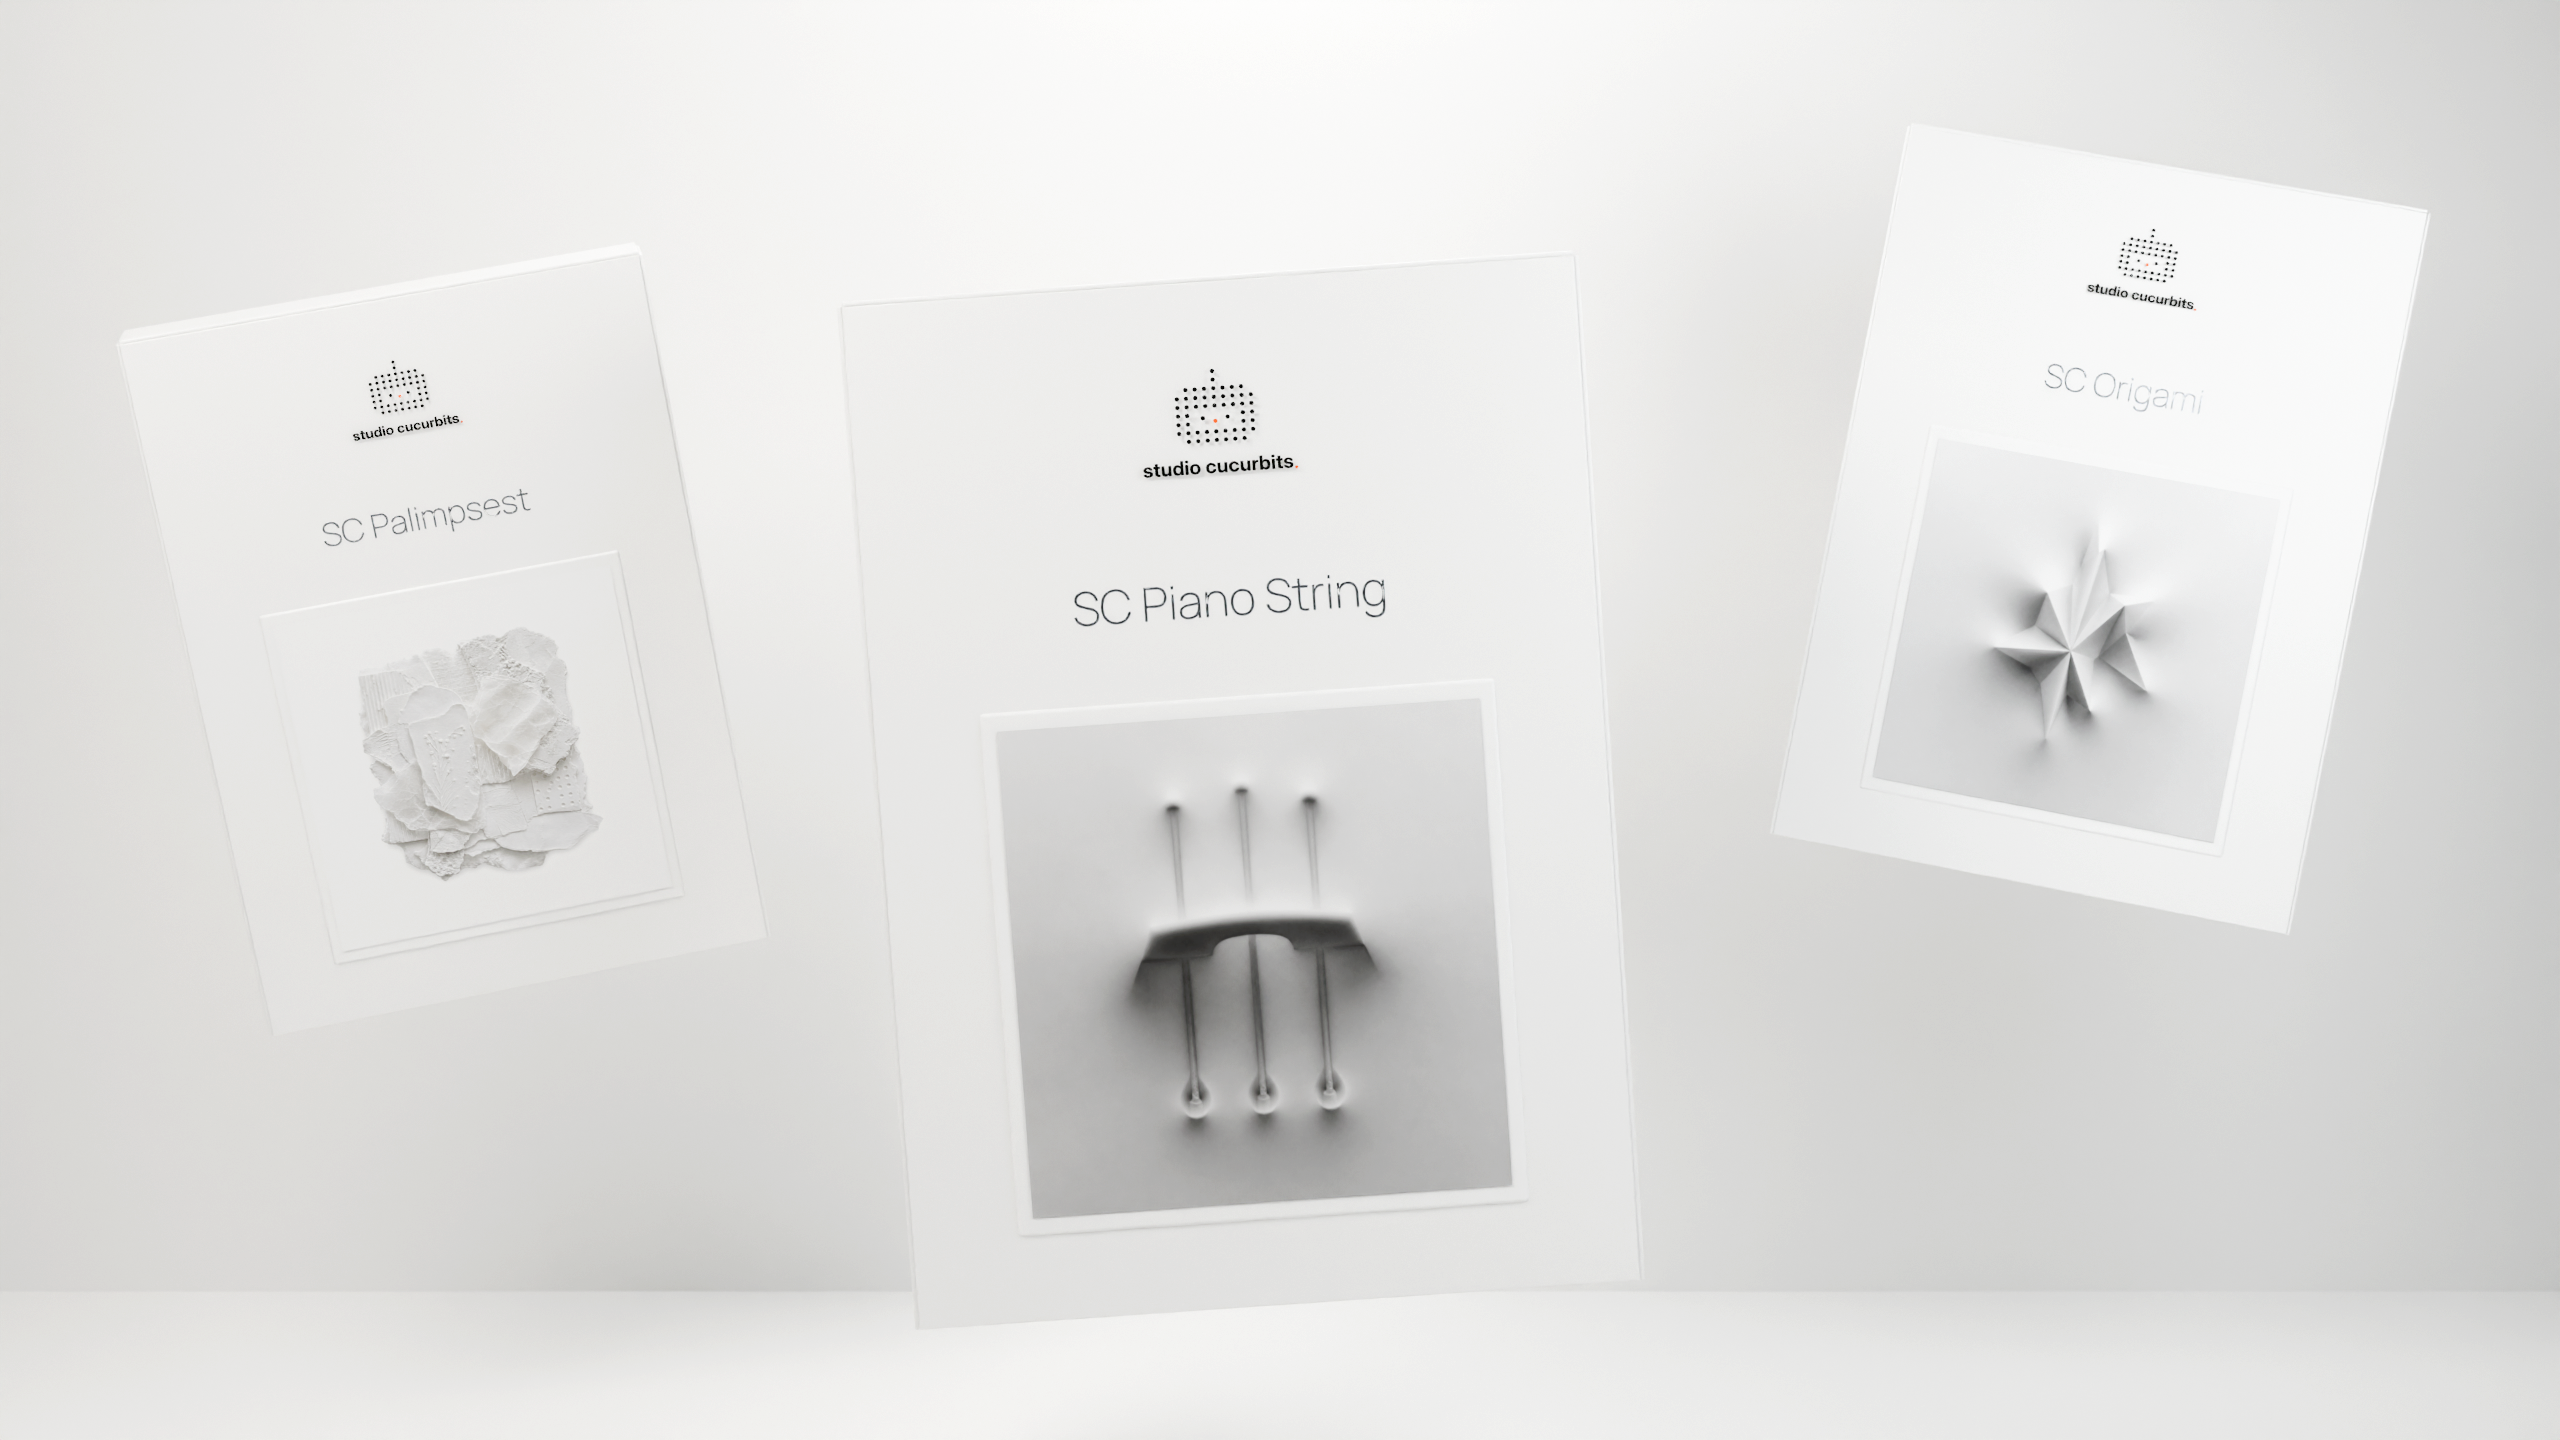
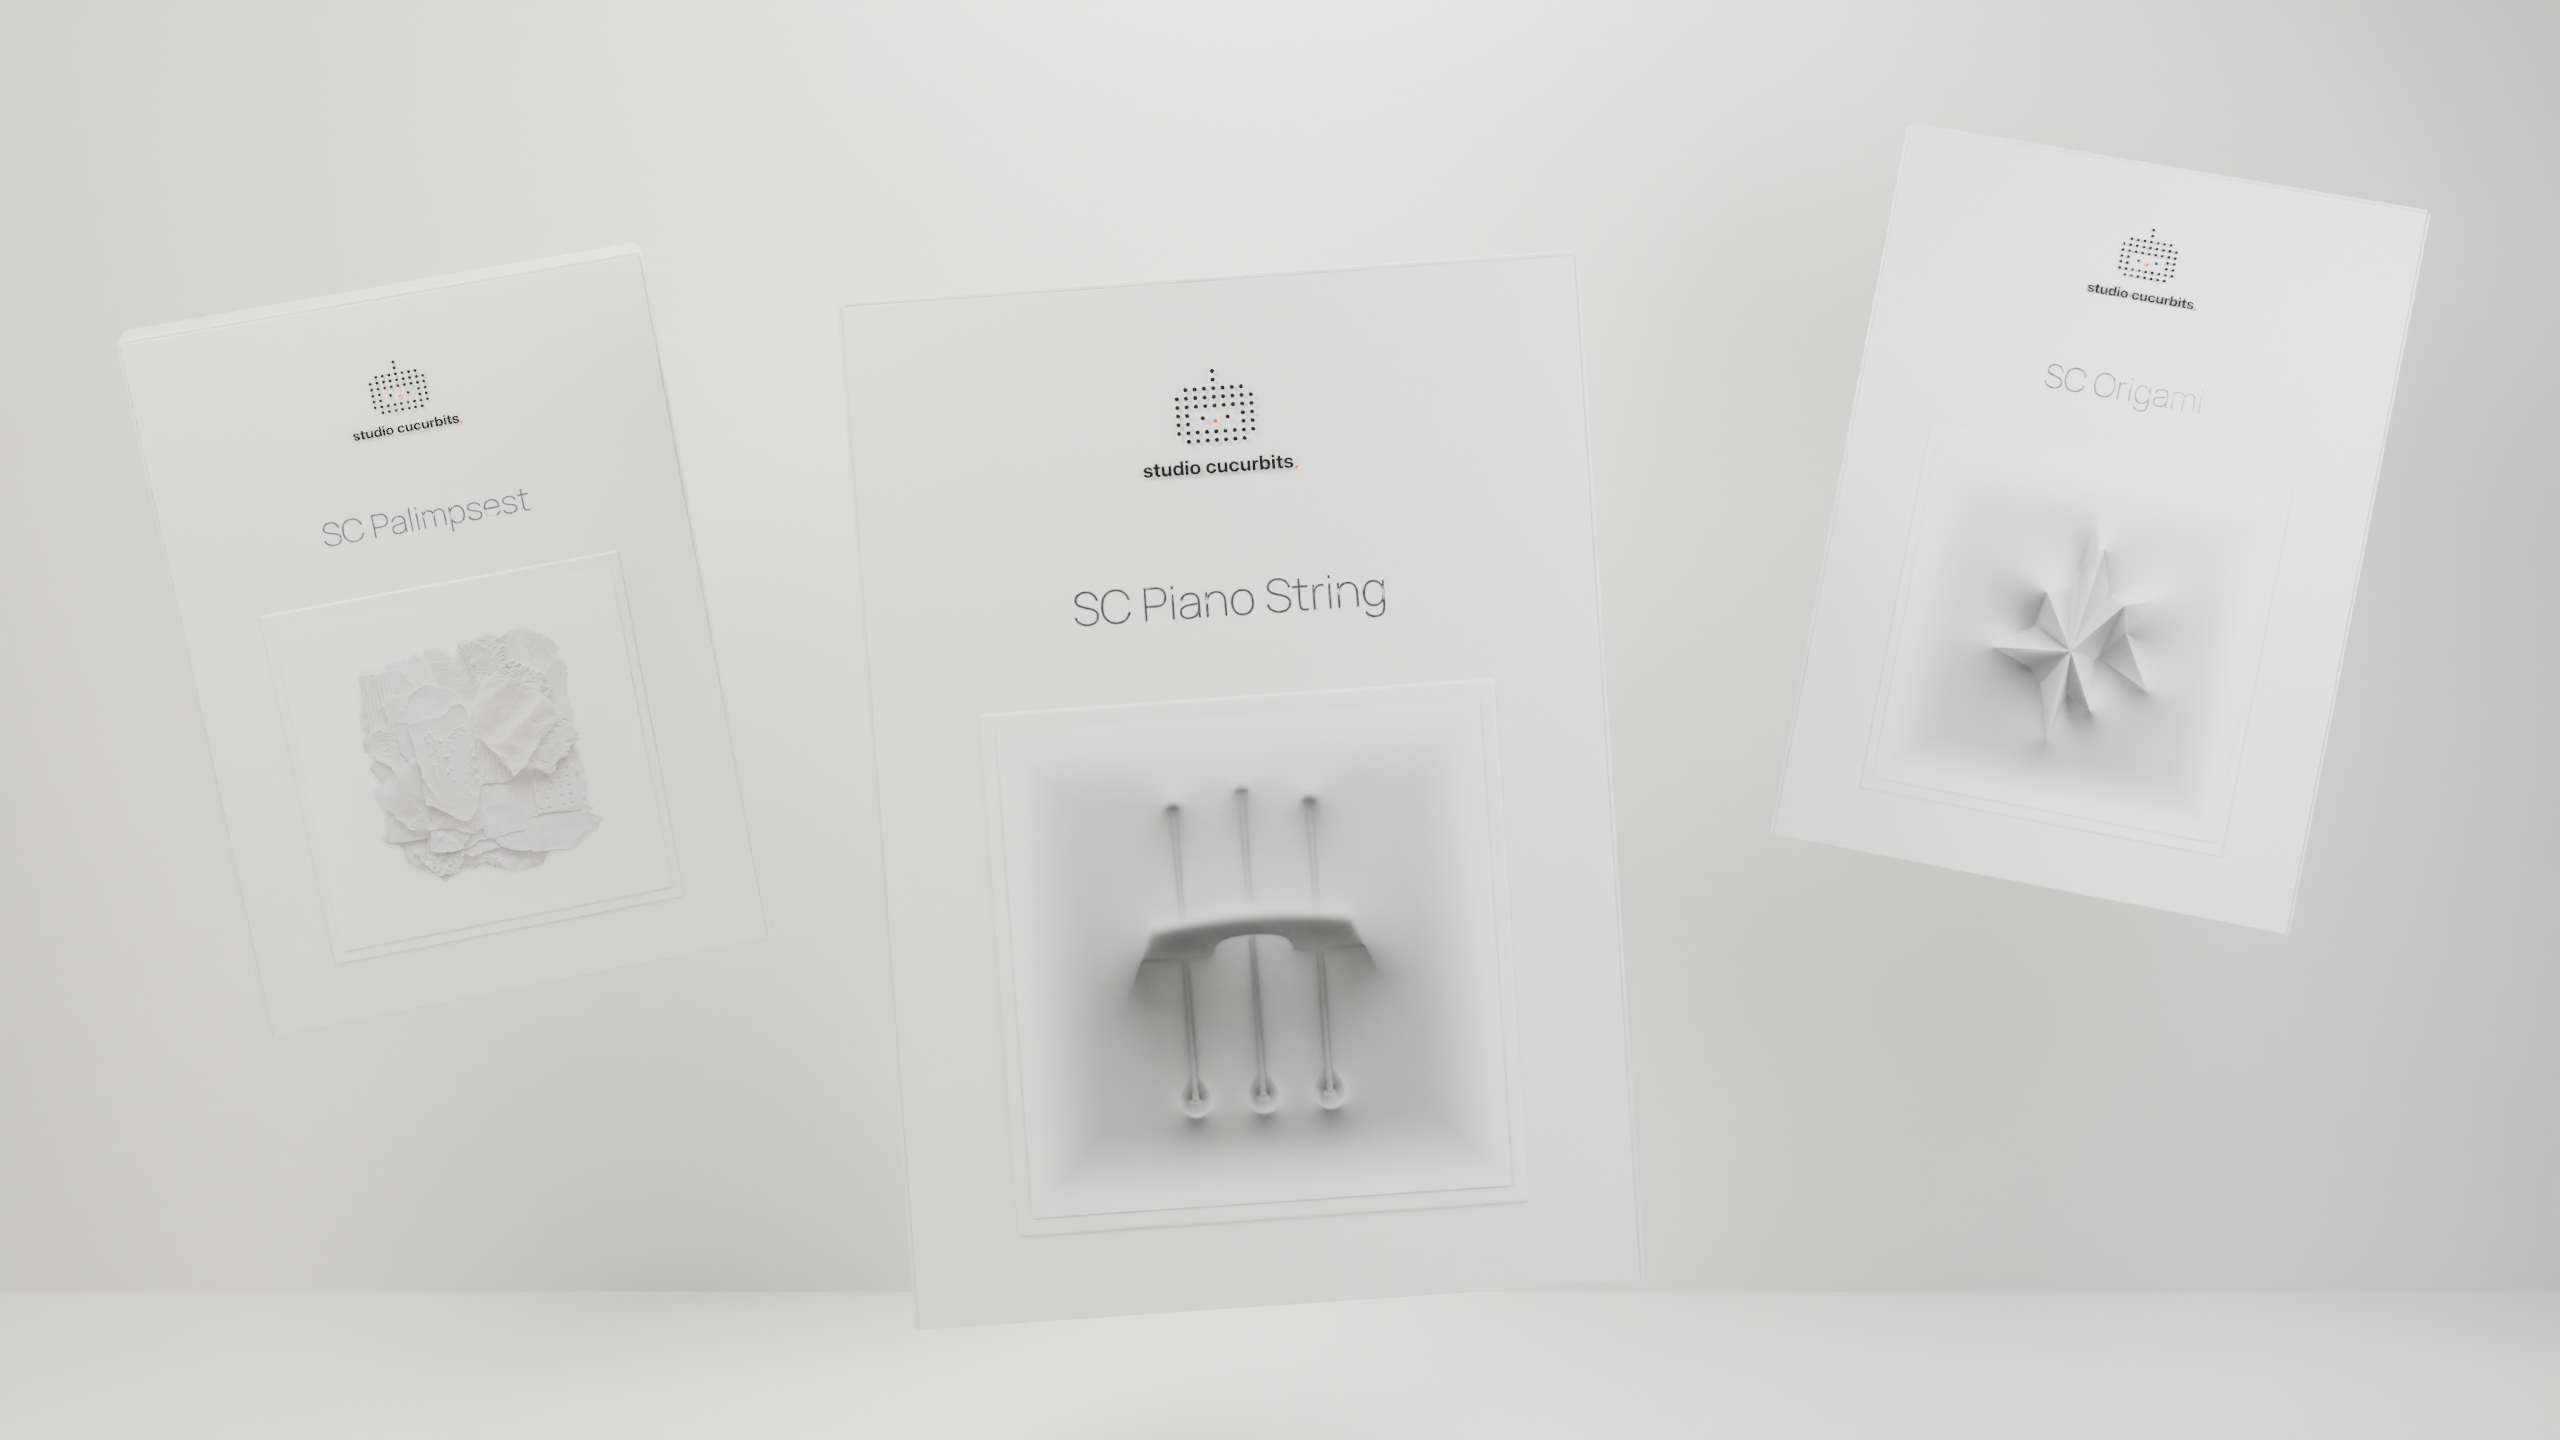
change images

diff --git a/src/data/products.ts b/src/data/products.ts
@@ -145,12 +145,19 @@ function product(
 
 const tracesPrice = { regularPriceJPY: 4400, regularPriceUSD: 29, introPriceJPY: 2900, introPriceUSD: 19 };
 const tendrilPrice = { regularPriceJPY: 4400, regularPriceUSD: 29, introPriceJPY: 2900, introPriceUSD: 19 };
+const websiteMedia = (individual: string, centre: string, extraCentre: string[] = []): ProductMedia => ({
+  heroImage: `/images/products/website/individual/${individual}.png`,
+  gallery: [`/images/products/centre/${centre}.png`, ...extraCentre.map((asset) => `/images/products/centre/${asset}.png`)],
+  video: { status: null, poster: null, mp4: null, webm: null, captions: null },
+  audioExamples: [],
+});
 
 export const products: Product[] = [
   product('hidden-prototype', 'Hidden prototype', null, 'hidden'),
   {
     ...product('palimpsest', 'SC Palimpsest', 'traces', 'hidden', tracesPrice),
     editorial: { en: { shortDescription: 'Sounds remain as overwritten spectral traces.', description: null, features: [] }, ja: { shortDescription: '上書きされたスペクトルの痕跡として音が残ります。', description: null, features: [] } },
+    media: websiteMedia('traces_palimpsest', 'central_sc_palimpsest'),
   },
   {
     ...product('suspended', 'SC Suspended', 'traces', 'coming-soon', tracesPrice),
@@ -167,12 +174,7 @@ export const products: Product[] = [
         features: [],
       },
     },
-    media: {
-      heroImage: '/images/products/SC_Suspended_mockup_20260722.png',
-      gallery: [],
-      video: { status: 'in-production', poster: null, mp4: null, webm: null, captions: null },
-      audioExamples: [],
-    },
+    media: { ...websiteMedia('traces_suspended', 'central_sc_suspended'), video: { status: 'in-production', poster: null, mp4: null, webm: null, captions: null } },
     supportedFormats: ['VST3'],
     supportedPlatforms: ['Windows Beta'],
     checkoutUrlJPY: import.meta.env.STRIPE_SUSPENDED_PAYMENT_LINK_JPY?.trim() || null,
@@ -182,7 +184,7 @@ export const products: Product[] = [
     seo: {
       title: 'SC Suspended — Granular audio effect | Studio Cucurbits.',
       description: 'SC Suspended is a live-input granular effect for holding sound in suspension while preserving internal motion.',
-      image: '/images/products/SC_Suspended_mockup_20260722.png',
+      image: '/images/products/website/individual/traces_suspended.png',
       keywords: ['granular processor', 'audio effect', 'sound design'],
     },
     launch: {
@@ -286,13 +288,14 @@ export const products: Product[] = [
   {
     ...product('refraction', 'SC Refraction', 'traces', 'hidden', tracesPrice),
     editorial: { en: { shortDescription: 'Coherent spectral regions bend into new relationships.', description: null, features: [] }, ja: { shortDescription: 'まとまりあるスペクトル領域が、新しい関係へと曲がります。', description: null, features: [] } },
+    media: websiteMedia('traces_refraction', 'central_sc_refraction'),
   },
-  product('piano-string', 'SC Piano String', 'tendril', 'hidden', { regularPriceJPY: 2800, regularPriceUSD: 19, introPriceJPY: 1800, introPriceUSD: 12 }),
-  product('gong', 'SC Gong', 'tendril', 'hidden'),
-  product('flute', 'SC Flute', 'tendril', 'hidden', tendrilPrice),
-  product('clarinet', 'SC Clarinet', 'tendril', 'hidden', tendrilPrice),
-  product('trumpet', 'SC Trumpet', 'tendril', 'hidden', tendrilPrice),
-  product('violin', 'SC Violin', 'tendril', 'hidden', { regularPriceJPY: 5900, regularPriceUSD: 39, introPriceJPY: 3900, introPriceUSD: 25 }),
+  { ...product('piano-string', 'SC Piano String', 'tendril', 'hidden', { regularPriceJPY: 2800, regularPriceUSD: 19, introPriceJPY: 1800, introPriceUSD: 12 }), media: websiteMedia('single_piano_string', 'central_sc_piano_string') },
+  { ...product('gong', 'SC Gong', 'tendril', 'hidden'), media: websiteMedia('tendril_gong', 'central_sc_gong') },
+  { ...product('flute', 'SC Flute', 'tendril', 'hidden', tendrilPrice), media: websiteMedia('tendril_flute', 'central_sc_flute') },
+  { ...product('clarinet', 'SC Clarinet', 'tendril', 'hidden', tendrilPrice), media: websiteMedia('tendril_clarinet', 'central_sc_clarinet') },
+  { ...product('trumpet', 'SC Trumpet', 'tendril', 'hidden', tendrilPrice), media: websiteMedia('tendril_trumpet', 'central_sc_trumpet') },
+  { ...product('violin', 'SC Violin', 'tendril', 'hidden', { regularPriceJPY: 5900, regularPriceUSD: 39, introPriceJPY: 3900, introPriceUSD: 25 }), media: websiteMedia('tendril_violin_v2', 'central_sc_violin_v3', ['central_sc_violin_v2']) },
   product('cello', 'SC Cello', 'tendril', 'hidden', { regularPriceJPY: 5900, regularPriceUSD: 39, introPriceJPY: 3900, introPriceUSD: 25 }),
   {
     ...product('vitreous', 'SC Vitreous', null, 'hidden', { regularPriceJPY: 5900, regularPriceUSD: 39, introPriceJPY: 3900, introPriceUSD: 25 }),
@@ -309,6 +312,7 @@ export const products: Product[] = [
         features: ['プロシージャル・シンセシス', '録音済みガラスサンプル不使用', 'AI・クラウド処理不使用', '入力由来のフラクチャーイベント'],
       },
     },
+    media: websiteMedia('material_study_01_vitreous', 'central_sc_vitreous'),
   },
 ];
 
@@ -340,6 +344,7 @@ export const collections: Collection[] = [
   {
     ...collection('traces', 'Traces', ['palimpsest', 'suspended', 'refraction'], { regularPriceJPY: 9800, regularPriceUSD: 69, introPriceJPY: 6900, introPriceUSD: 49 }),
     status: 'archived',
+    heroImage: '/images/products/website/bundles/traces.png',
     editorial: {
       en: { shortDescription: 'Three processors for composing memory, suspension and spectral transformation.', description: null, features: [] },
       ja: { shortDescription: '記憶、サスペンション、スペクトル変換を作曲するための三つのプロセッサー。', description: null, features: [] },
@@ -348,6 +353,7 @@ export const collections: Collection[] = [
   {
     ...collection('tendril', 'Tendril', ['piano-string', 'gong', 'flute', 'clarinet', 'trumpet', 'violin', 'cello'], { regularPriceJPY: 19800, regularPriceUSD: 139, introPriceJPY: 13800, introPriceUSD: 99 }),
     status: 'archived',
+    heroImage: '/images/products/website/bundles/tendril.png',
     editorial: {
       en: {
         shortDescription: 'Experimental physical models for strings, air columns, friction and resonant bodies.',
@@ -361,7 +367,7 @@ export const collections: Collection[] = [
       },
     },
   },
-  collection('future-artist-collection', 'Future Artist Collection', [], { regularPriceJPY: 24800, regularPriceUSD: 169, introPriceJPY: 17800, introPriceUSD: 119 }, ['traces', 'tendril']),
+  { ...collection('future-artist-collection', 'Future Artist Collection', [], { regularPriceJPY: 24800, regularPriceUSD: 169, introPriceJPY: 17800, introPriceUSD: 119 }, ['traces', 'tendril']), heroImage: '/images/products/website/bundles/material_study_01.png' },
 ];
 
 export function getProductBySlug(slug: string): Product | undefined {

diff --git a/src/styles/global.css b/src/styles/global.css
@@ -63,6 +63,8 @@ h3 { font-size: 1.1rem; }
 .product-overview-hero img { display: block; width: 100%; height: 100%; object-fit: cover; }
 .product-overview-newsletter { margin-top: clamp(3rem, 8vw, 7rem); }
 .product-hero-image { width: min(100%, 72rem); margin: clamp(2rem, 6vw, 5rem) 0 0; }
+.product-gallery-grid { display: grid; grid-template-columns: repeat(auto-fit, minmax(min(100%, 18rem), 1fr)); gap: clamp(1rem, 3vw, 2rem); }
+.product-gallery-grid img { display: block; width: 100%; height: auto; background: var(--paper); }
 .newsletter-form input, .newsletter-form select, .newsletter-form button { font: inherit; padding: .65rem; }
 .newsletter-form button { width: fit-content; background: var(--ink); color: var(--paper); border: 0; cursor: pointer; }
 .newsletter-form button:disabled { cursor: not-allowed; opacity: .6; }

diff --git a/tests/render/catalogue.test.ts b/tests/render/catalogue.test.ts
@@ -33,14 +33,14 @@ describe('Audio Instruments catalogue', () => {
   it('uses the regenerated hero image and shows the SC Suspended product card', () => {
     buildSite();
 
-    expect(renderedPage('/products')).toContain('contrast_SC_Hero_2560x1440.png');
+    expect(renderedPage('/products')).toContain('SC_Hero_2560x1440.png');
     expect(renderedPage('/products')).toContain('catalogue-card');
   });
 
   it('uses the plugin hero image for the current studio update', () => {
     buildSite();
 
-    expect(renderedPage('')).toContain('src="/images/products/SC_Suspended_mockup_20260722.png"');
+    expect(renderedPage('')).toContain('src="/images/products/website/individual/traces_suspended.png"');
     expect(renderedPage('')).toContain('Notify me');
   });
 

diff --git a/tests/render/routes.test.ts b/tests/render/routes.test.ts
@@ -30,9 +30,10 @@ describe('SC Suspended sales routes', () => {
     const html = renderedPage('/products');
     const detail = renderedPage('/products/suspended');
     const detailJa = renderedPage('/ja/products/suspended');
-    expect(html).toContain('contrast_SC_Hero_2560x1440.png');
+    expect(html).toContain('SC_Hero_2560x1440.png');
     expect(html).toContain('SC Suspended');
-    expect(detail).toContain('SC_Suspended_mockup_20260722.png');
+    expect(detail).toContain('traces_suspended.png');
+    expect(detail).toContain('central_sc_suspended.png');
     expect(detail).toContain('Sound in suspension. A body still in motion.');
     expect(detailJa).toContain('浮遊する音。動き続ける身体。');
     expect(detailJa).toContain('特徴');

diff --git a/src/data/site.ts b/src/data/site.ts
@@ -42,5 +42,5 @@ export const latestItem: LatestItem = {
   summaryJa: '浮遊する音。動き続ける身体。',
   href: '/products/suspended/',
   status: 'coming-soon',
-  image: '/images/products/SC_Suspended_mockup_20260722.png',
+  image: '/images/products/website/individual/traces_suspended.png',
 };

diff --git a/docs/superpowers/plans/2026-07-27-plugin-website-assets.md b/docs/superpowers/plans/2026-07-27-plugin-website-assets.md
@@ -1,0 +1,49 @@
+# Plugin Website Assets Implementation Plan
+
+> **For agentic workers:** REQUIRED SUB-SKILL: Use superpowers:subagent-driven-development (recommended) or superpowers:executing-plans to implement this plan task-by-task. Steps use checkbox (`- [ ]`) syntax for tracking.
+
+**Goal:** Replace the existing plugin announcement imagery with the supplied website renders and central UI assets.
+
+**Architecture:** Keep the current Astro data-driven site intact. Copy supplied PNGs into `public/images/products/`, then update product and collection media references in `src/data/products.ts`; no copy, route, or layout changes are needed.
+
+**Tech Stack:** Astro, TypeScript, npm, Vitest/Playwright.
+
+## Global Constraints
+
+- Preserve existing routes, copy, release statuses, and layout behavior.
+- Use supplied assets only; do not generate or crop replacement artwork.
+- Keep public asset paths rooted at `/images/products/`.
+- Verify with the existing test suite and `npm run build`.
+
+---
+
+### Task 1: Import supplied website assets
+
+**Files:**
+- Create: `public/images/products/centre/*.png`
+- Create: `public/images/products/website/individual/*.png`
+- Create: `public/images/products/website/bundles/*.png`
+- Create: `public/images/products/SC_Hero_2560x1440.png`
+
+- [x] **Step 1: Copy the supplied Centre, individual, bundle, and hero PNGs into the public product asset tree.**
+- [x] **Step 2: Verify each copied file exists and retains its source dimensions.**
+
+### Task 2: Update product and collection media mappings
+
+**Files:**
+- Modify: `src/data/products.ts`
+
+- [x] **Step 1: Point visible product imagery at the supplied central UI and individual render assets.**
+- [x] **Step 2: Point Traces, Tendril, and Future Artist Collection imagery at the supplied bundle renders.**
+- [x] **Step 3: Add the supplied individual renders as product galleries without changing statuses or copy.**
+
+### Task 3: Update catalogue hero and verify
+
+**Files:**
+- Modify: `src/pages/products/index.astro`
+- Test: `tests/render/routes.test.ts`, `tests/render/seo.test.ts`
+
+- [x] **Step 1: Replace the old contrast hero reference with the supplied website hero render.**
+- [x] **Step 2: Run the existing tests.**
+- [x] **Step 3: Run `npm run build`.**
+- [x] **Step 4: Confirm generated pages contain the new asset paths.**
